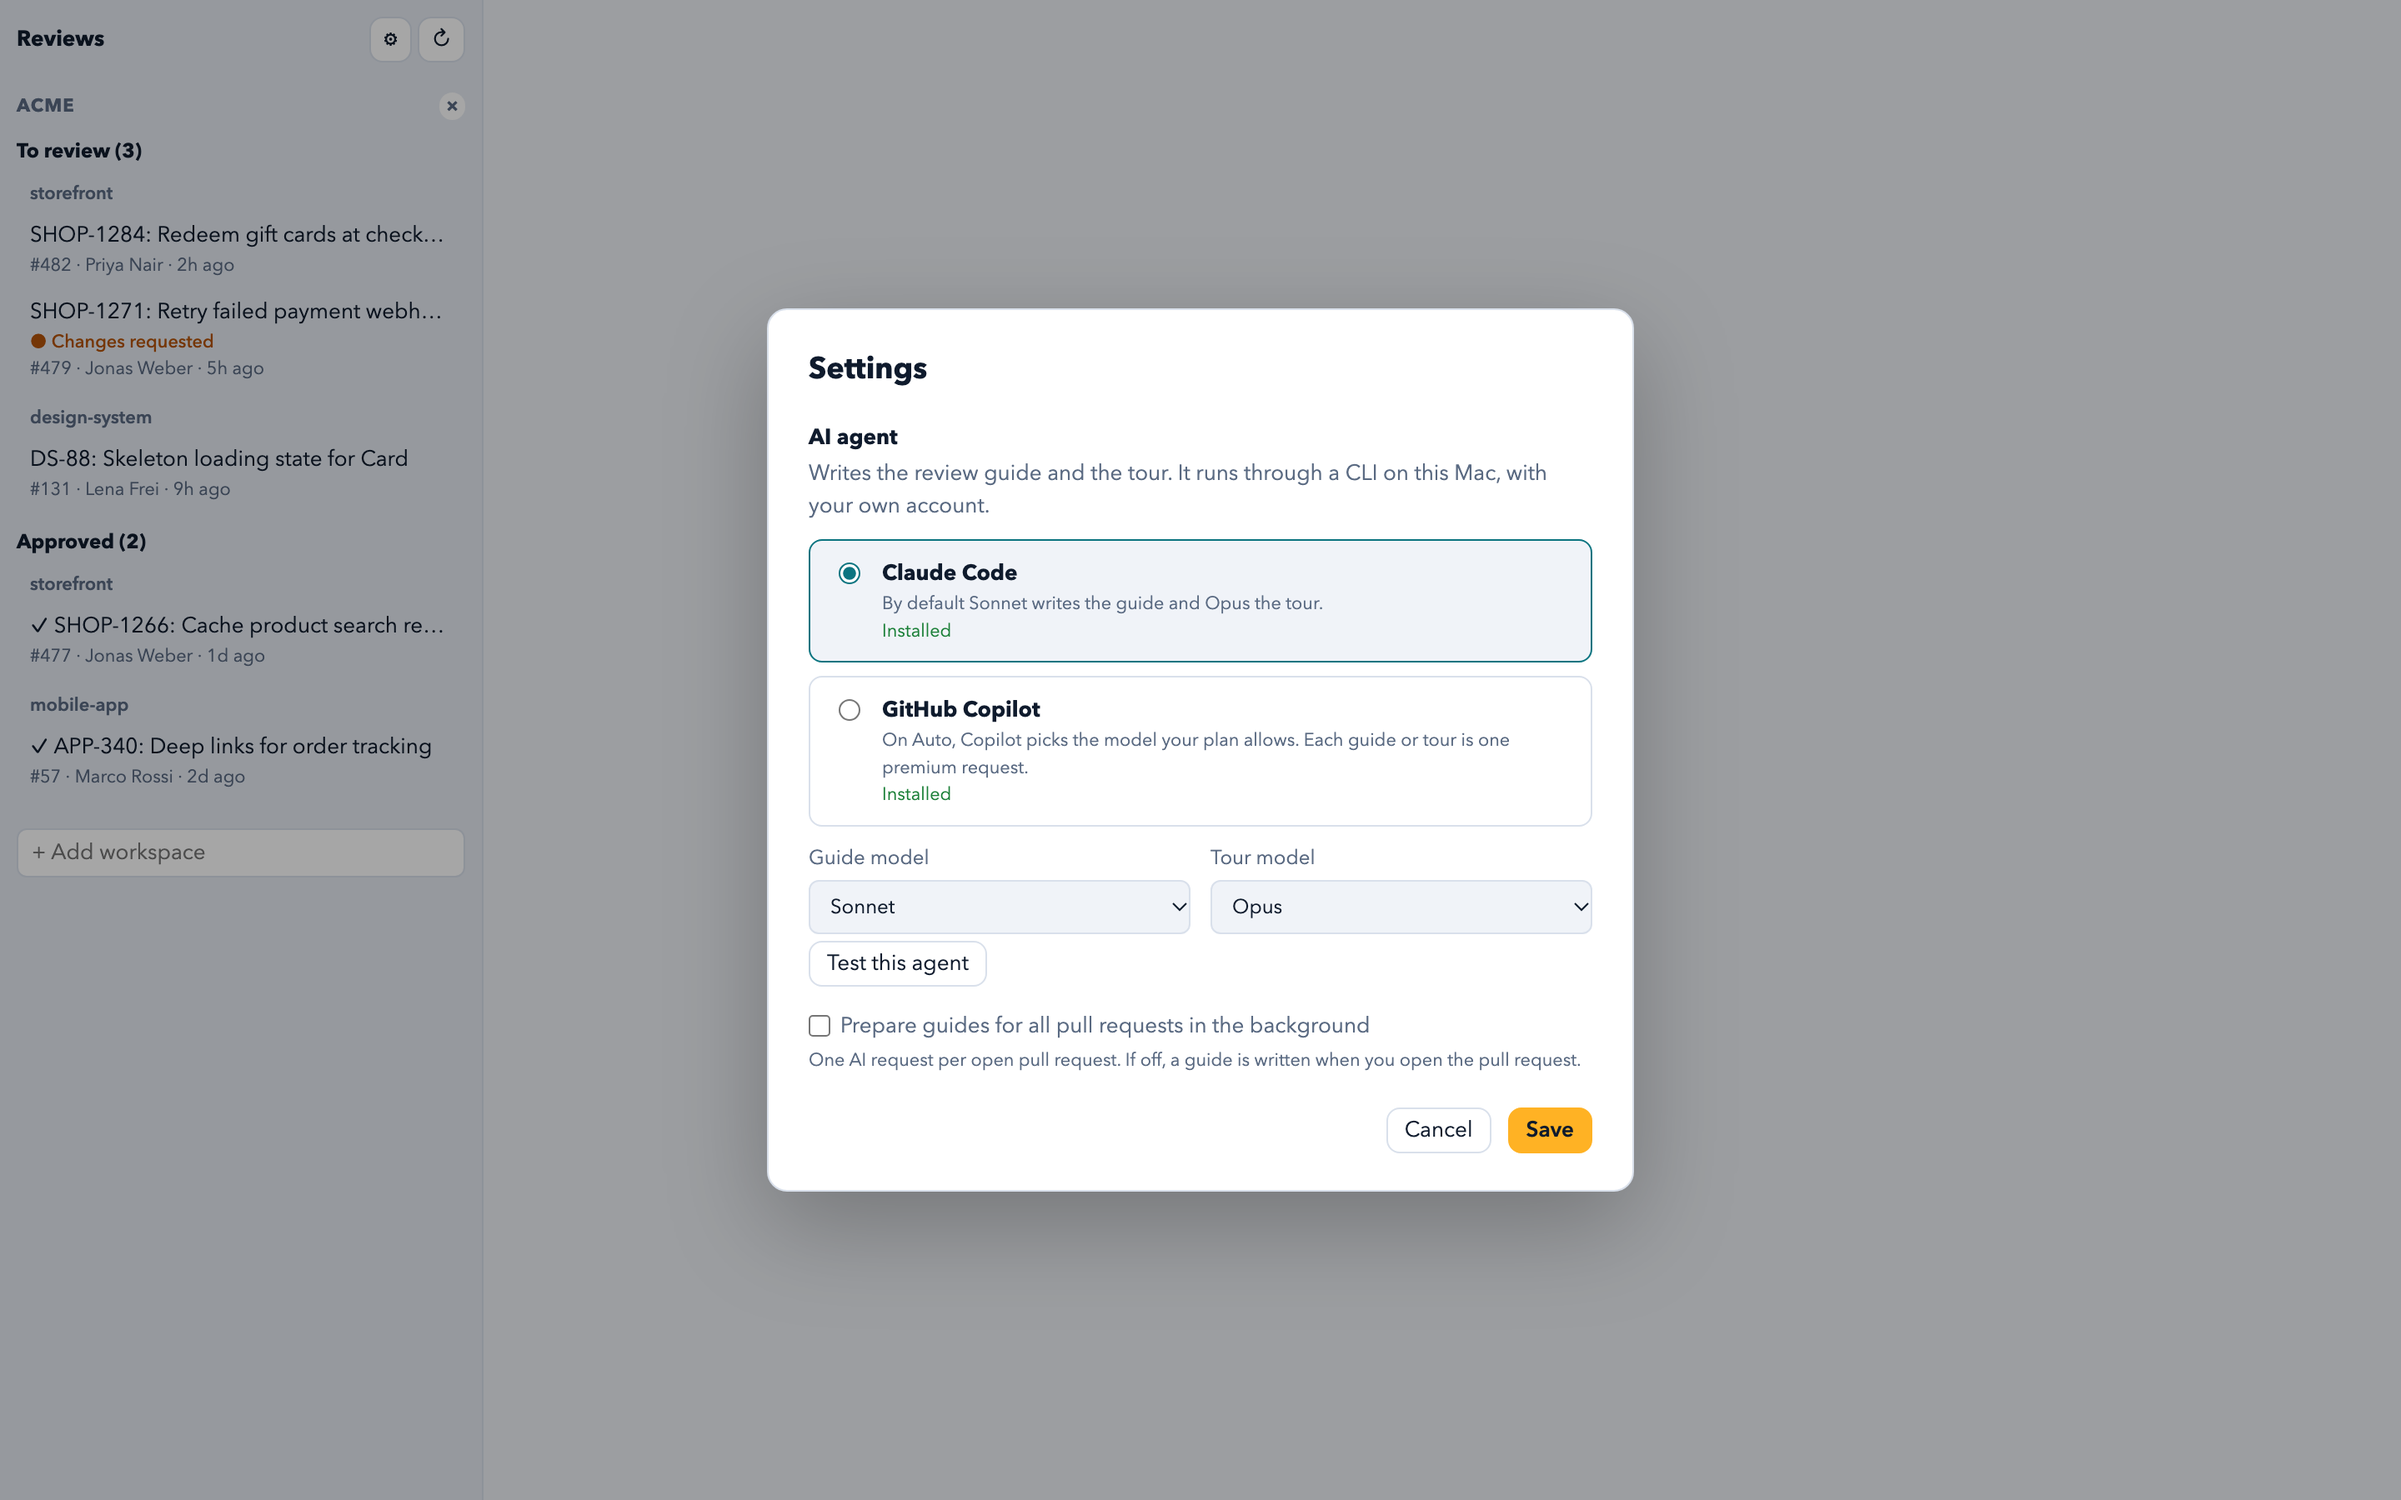
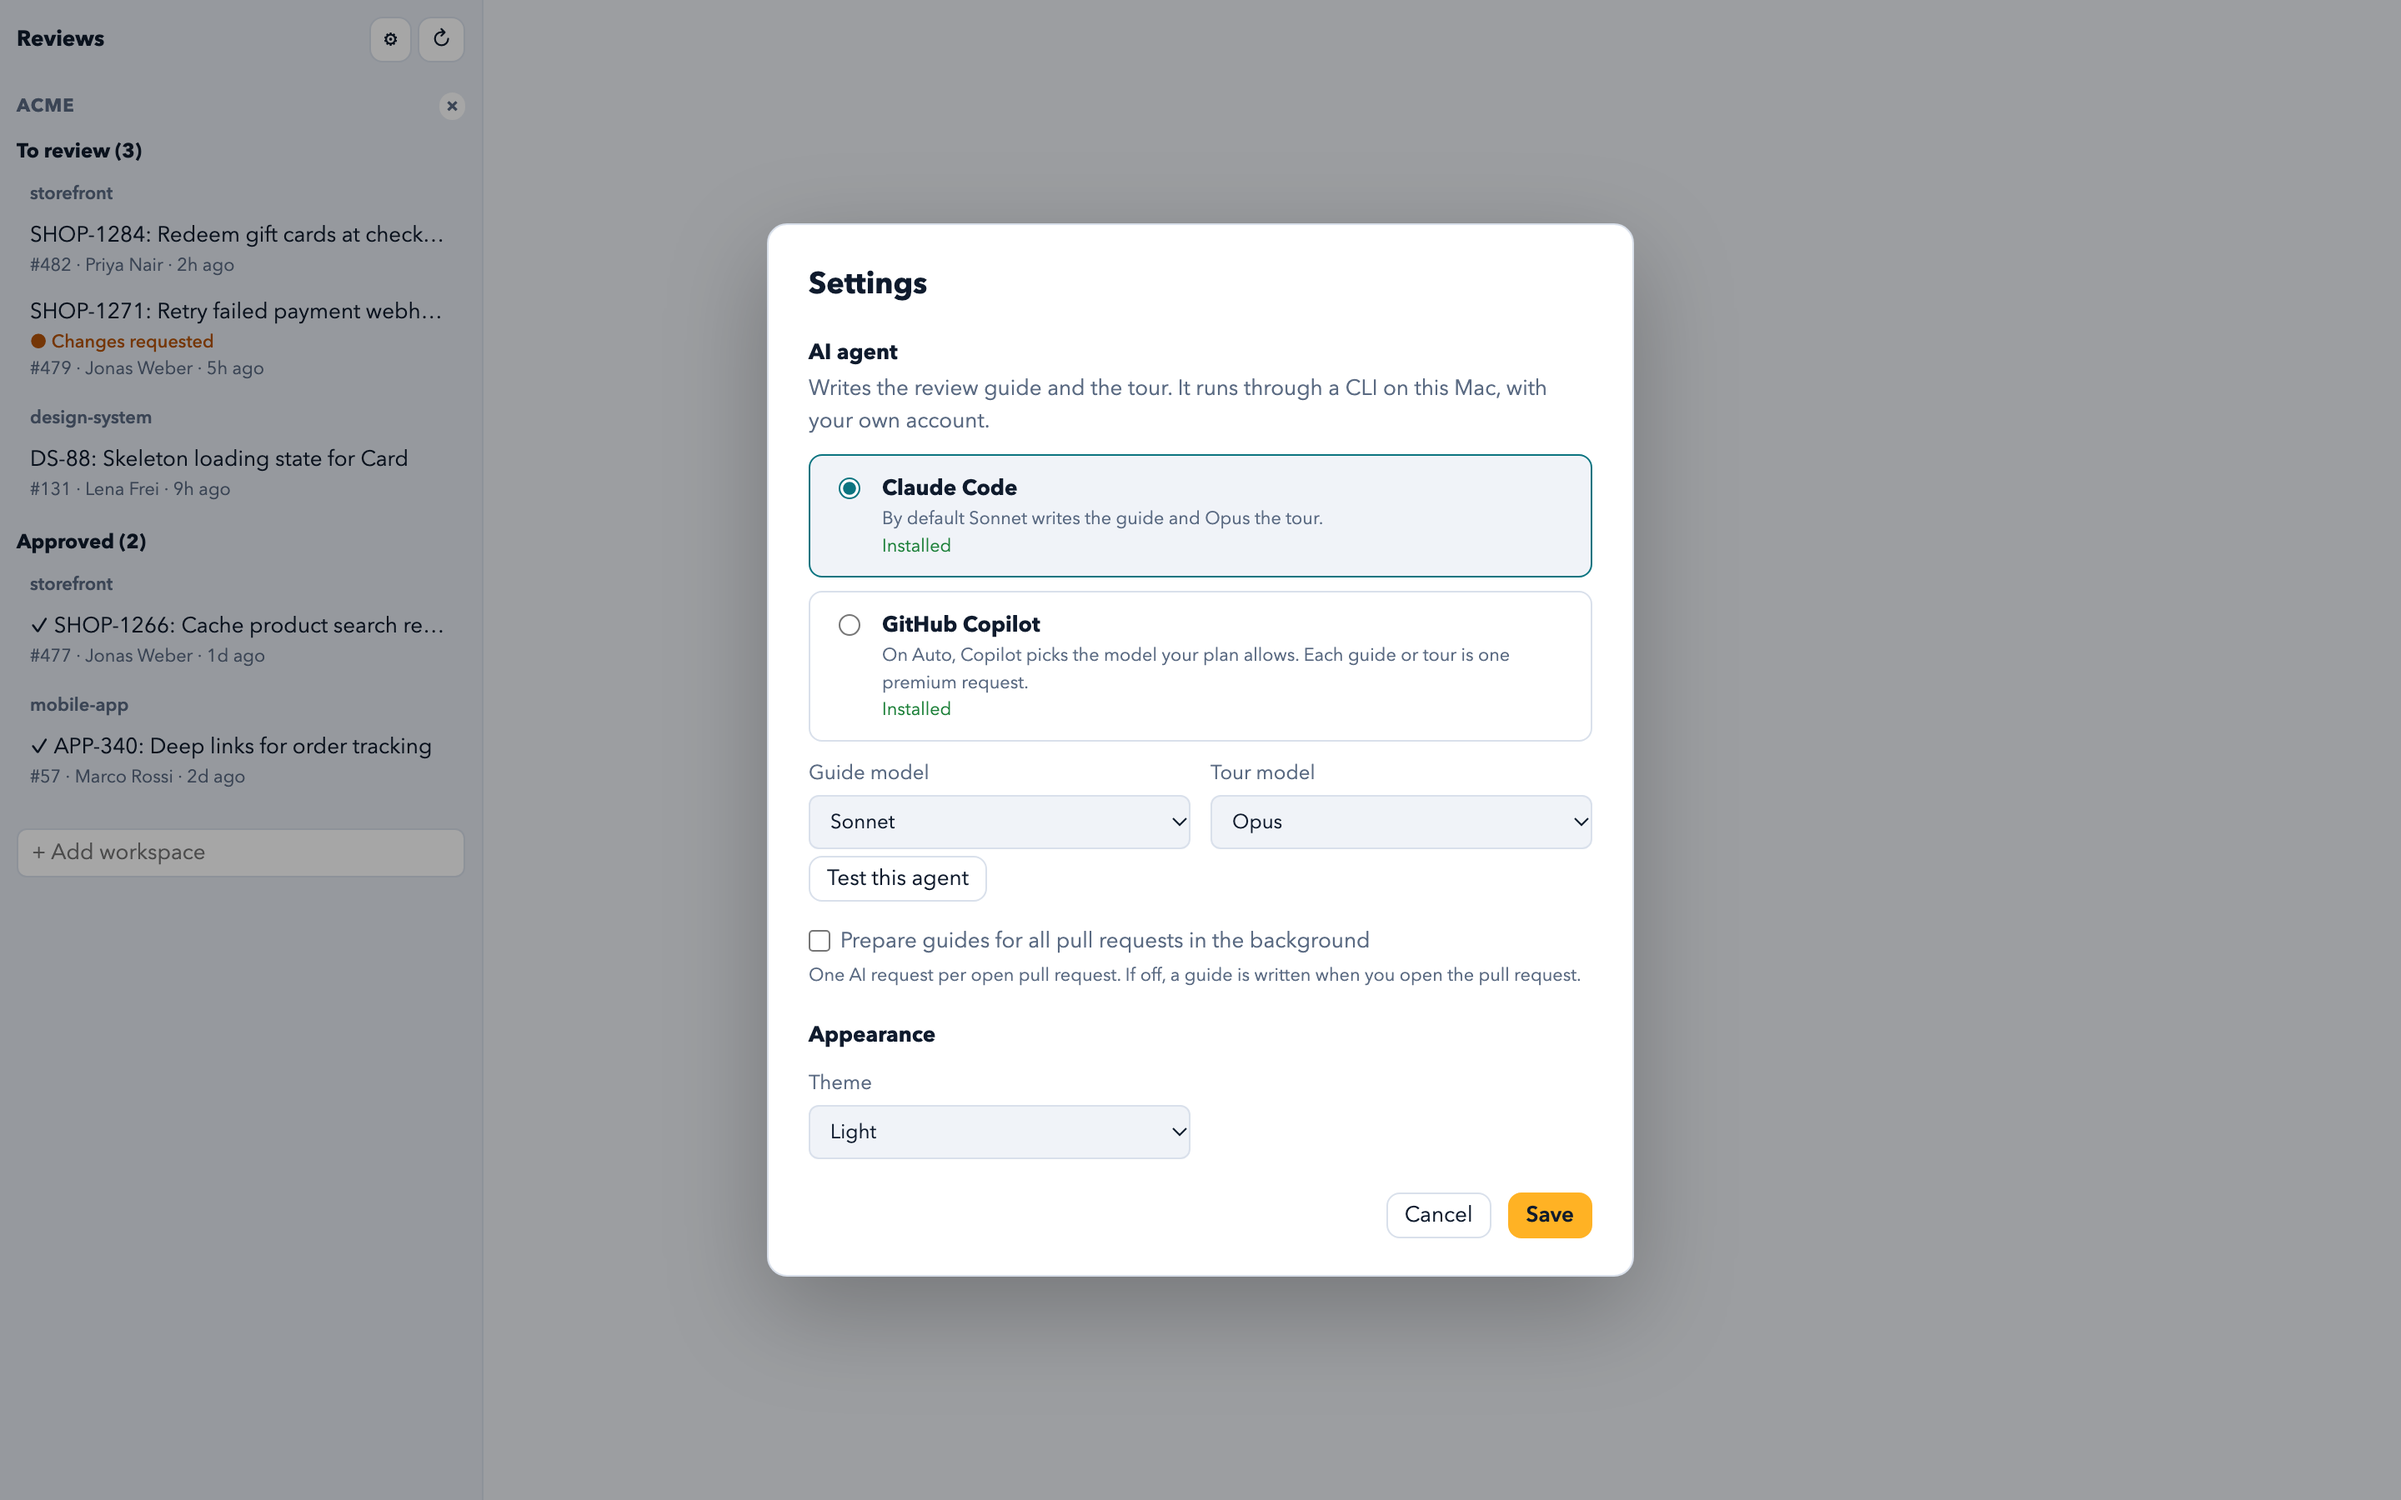
Theme setting: same as system, light or dark

diff --git a/ui/app.js b/ui/app.js
@@ -84,6 +84,13 @@ const AGENTS = [
 ];
 let models = load('models', {}); // agent -> { guide, tour }, missing means the agent's default
 const modelFor = (kind, a = agent, chosen = models) => chosen[a]?.[kind] ?? AGENTS.find((x) => x.id === a)?.[kind];
+// Appearance: 'system' follows the OS, 'light' and 'dark' pin it. The stylesheet's light-dark() colours follow color-scheme.
+function applyTheme(theme = load('theme', 'system')) {
+  document.documentElement.style.colorScheme = theme === 'system' ? 'light dark' : theme;
+  // The native title bar follows too. Not available in a plain browser.
+  window.__TAURI__.window?.getCurrentWindow?.().setTheme(theme === 'system' ? null : theme).catch(() => {});
+}
+applyTheme();
 // Preloading costs one AI request per open PR, so it is opt-in.
 const preloadOn = () => load('preload', false);
 const errors = {};
@@ -878,6 +885,7 @@ async function openSettings(first) {
   const found = await invoke('installed').catch(() => ({}));
   let pick = agent ?? (found.copilot && !found.claude ? 'copilot' : 'claude');
   let pre = preloadOn();
+  let theme = load('theme', 'system');
   const chosen = structuredClone(models);
   const offered = Object.fromEntries(AGENTS.map((x) => [x.id, x.models]));
   const modelNote = h('small');
@@ -914,6 +922,8 @@ async function openSettings(first) {
     save('agent', agent);
     save('models', models);
     save('preload', pre);
+    save('theme', theme);
+    applyTheme(theme);
     save('workspaces', workspaces);
     dlg.close();
     dlg.remove();
@@ -950,6 +960,8 @@ async function openSettings(first) {
       h('div', { className: 'row' }, h('button', { type: 'button', textContent: 'Test this agent', onclick: test }), status),
       h('label', { className: 'check' }, h('input', { type: 'checkbox', checked: pre, onchange: (e) => (pre = e.target.checked) }), 'Prepare guides for all pull requests in the background'),
       h('small', { textContent: 'One AI request per open pull request. If off, a guide is written when you open the pull request.' }),
+      h('h3', { textContent: 'Appearance' }),
+      h('div', { className: 'models' }, h('label', {}, 'Theme', h('select', { onchange: (e) => (theme = e.target.value) }, [['system', 'Same as system'], ['light', 'Light'], ['dark', 'Dark']].map(([value, textContent]) => h('option', { value, textContent, selected: value === theme }))))),
       first && [h('h3', { textContent: 'Bitbucket workspace' }), wsInput, found.twg === false && h('p', { className: 'error', textContent: 'The twg CLI was not found. Better Review needs it to read Bitbucket.' })],
       problem,
       h('div', { className: 'row end' }, !first && h('button', { type: 'button', textContent: 'Cancel', onclick: () => (dlg.close(), dlg.remove()) }), h('button', { type: 'button', className: 'primary', textContent: first ? 'Start reviewing' : 'Save', onclick: done })),

diff --git a/docs/demo/index.html b/docs/demo/index.html
@@ -11,8 +11,8 @@
 // The real interface on invented data, for screenshots. Nothing here talks to Bitbucket or an AI agent.
 // Serve the repository root and open /docs/demo/#shot=guide&theme=dark (shots: overview, guide, tour, diff, settings).
 const q = new URLSearchParams(location.hash.slice(1));
-if (q.get('theme')) document.documentElement.style.colorScheme = q.get('theme');
 localStorage.clear();
+if (q.get('theme')) localStorage.setItem('theme', JSON.stringify(q.get('theme')));
 localStorage.setItem('agent', '"claude"');
 localStorage.setItem('workspaces', '["acme"]');
 

diff --git a/TODO.md b/TODO.md
@@ -1,4 +1,3 @@
 # TODO
 
 - WYSIWYG editor for comments
-- Add dark mode switch to settings (light, dark, system)
